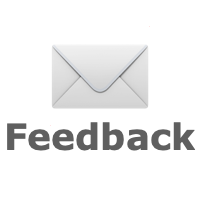
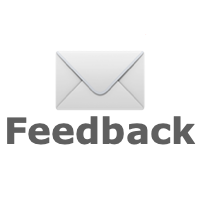
Image resizing

diff --git a/src/gui_manager.js b/src/gui_manager.js
@@ -419,7 +419,11 @@ class GUIManager {
             songTitleDiv.style.fontSize = songTitleFontSizeEM + 'em'
             songTitleDiv.style.fontWeight = 'bold'
             songTitleDiv.style.color = darkGray
+            songTitleDiv.style.whiteSpace = 'pre-wrap'
             songTitleDiv.innerHTML = this.songTitle
+            if (this.debugMode) {
+                console.log(this.songTitle)
+            }
         }
         return songTitleDiv
     }
@@ -430,7 +434,6 @@ class GUIManager {
         if (this.youtubeId != null) {
             youtubeDiv.style.width = youtubeDivWidthPx + 'px'
             youtubeDiv.style.height = youtubeDivHeightPx + 'px'
-            youtubeDiv.style.marginTop = baseSizePx + 'px'
             youtubeDiv.style.display = 'flex'
             youtubeDiv.style.justifyContent = 'center'
             youtubeDiv.style.alignItems = 'center'
@@ -453,6 +456,7 @@ class GUIManager {
         songDiv.style.flexDirection = 'column'
         songDiv.style.placeItems = 'center'
         songDiv.appendChild(this.getSongTitleDiv())
+        songDiv.style.gap = baseSizePx + 'px'
         songDiv.appendChild(this.getYoutubeDiv())
         return songDiv
     }
